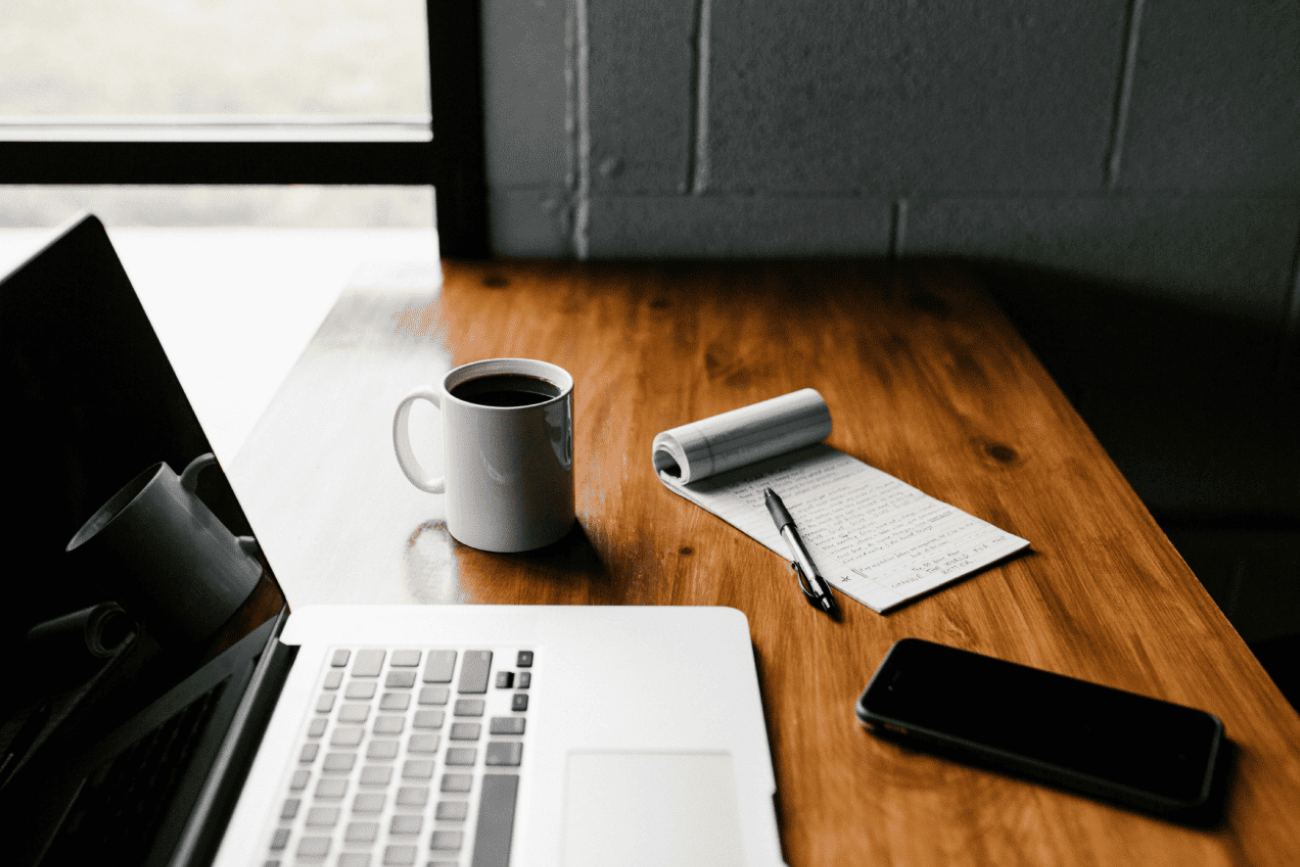
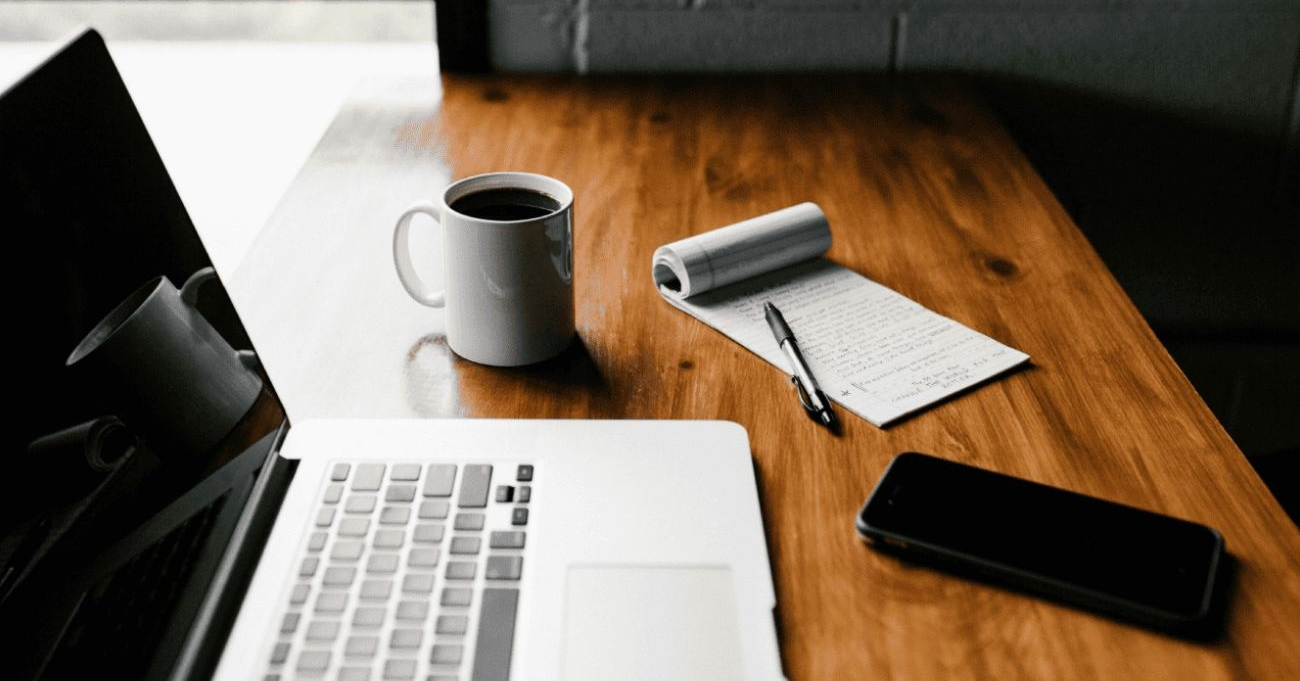
nueva imagen a dificultades aprendizaje

diff --git a/dificultades-de-aprendizaje.html b/dificultades-de-aprendizaje.html
@@ -180,7 +180,20 @@
     <section class="ud-blog-details">
       <div class="container">
         <div class="row">
-          <div class="col-lg-8">
+          <div class="col-lg-12">
+            <div class="ud-blog-details-image">
+              <img
+                src="assets/images/blog/dificultades-aprendizaje.jpg"
+                alt="blog details"
+              />
+              <div class="ud-blog-overlay">
+                <div class="ud-blog-overlay-content">
+                </div>
+              </div>
+            </div>
+          </div>
+		  
+		  <div class="col-lg-8">
             <div class="ud-blog-details-content">
               <h2 class="ud-blog-details-title">
                 Aprender

diff --git a/assets/css/ud-styles.css b/assets/css/ud-styles.css
@@ -2001,7 +2001,7 @@ p {
   position: relative;
   border-radius: 5px;
   overflow: hidden;
-  height: 500px;
+  height: 300px;
 }
 
 @media (max-width: 767px) {
